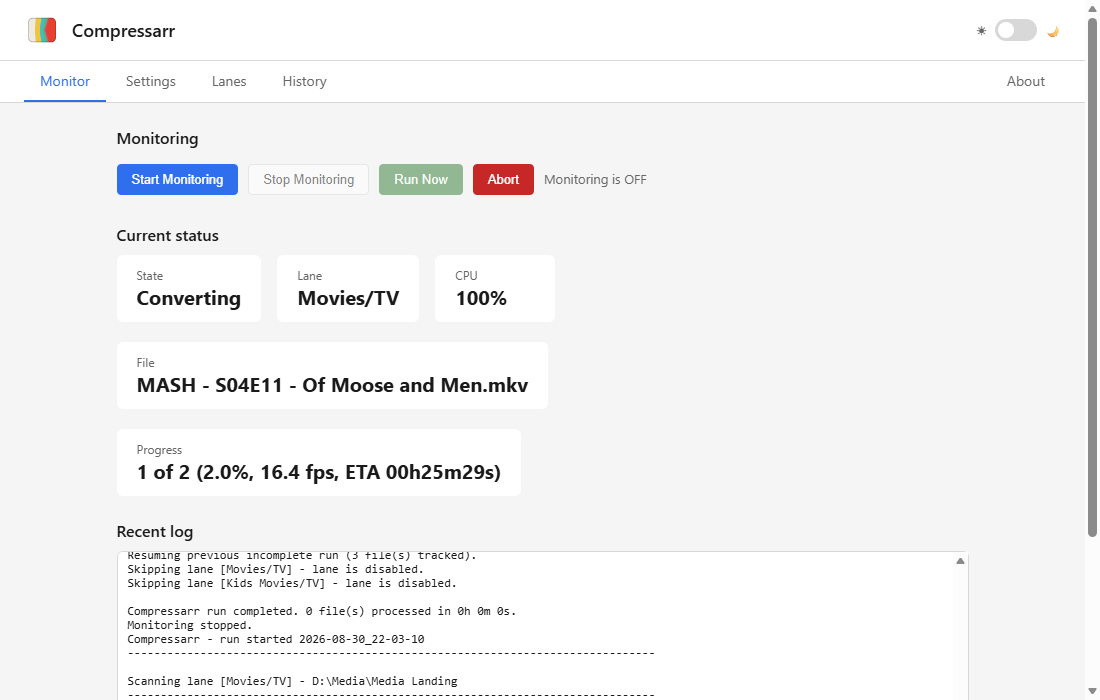
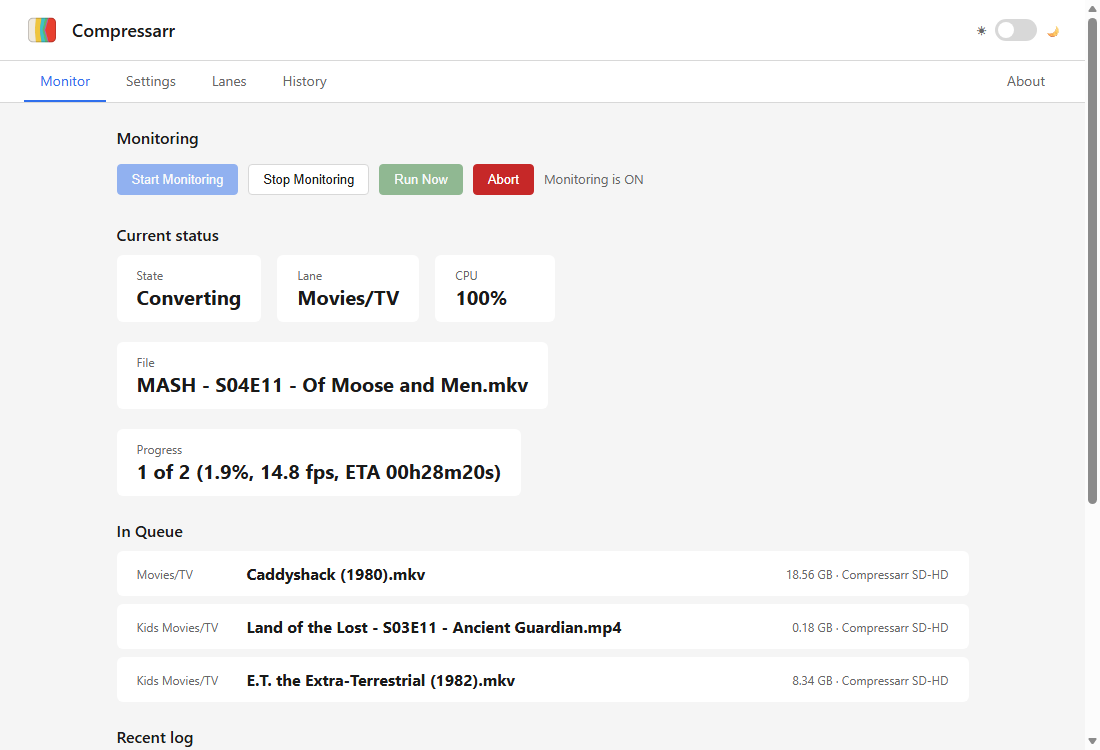
Refresh Monitor screenshot, document In Queue and Reload in README
New screenshot shows a real in-progress conversion alongside a
populated In Queue list. README's Monitoring section now mentions
In Queue and the immediate cross-surface stop feedback; the Settings
field table now mentions what Reload does.

diff --git a/README.md b/README.md
@@ -68,10 +68,13 @@ The Monitor page is the control surface for continuous operation: **Start Monito
 watching every enabled lane on a configurable interval, with a live countdown to the next pass.
 **Run Now** skips the rest of that countdown and starts immediately. **Abort** kills whatever
 HandBrakeCLI process is currently running and stops monitoring outright - as opposed to **Stop
-Monitoring**, which finishes the current pass before stopping. The recent-log panel and CPU
-usage update live while a pass runs.
+Monitoring**, which finishes the current pass before stopping (both the page and the tray icon
+reflect a stop the moment it's requested, from either surface). The **In Queue** section lists
+every file still waiting across all enabled lanes - lane, size, and preset - so you can see what's
+coming up without waiting for the current file to finish. The recent-log panel and CPU usage
+update live while a pass runs.
 
-<img src="Assets/Screenshots/monitor-page.png" alt="Compressarr Monitor page, showing a real conversion in progress with live percent/fps/ETA" width="700">
+<img src="Assets/Screenshots/monitor-page.png" alt="Compressarr Monitor page, showing a real conversion in progress with live percent/fps/ETA and the In Queue list" width="700">
 
 *The media shown is representational test data only, not the actual film - your own results
 (speed, file size, savings) will vary based on your source files, hardware, and preset.*
@@ -141,7 +144,7 @@ these pages has a small **?** next to it with a tooltip explaining what it does.
 | Field | What it's for |
 |---|---|
 | HandBrakeCLI path | Path to `HandBrakeCLI.exe` - Check/Install finds or downloads it |
-| presets.json path | Path to HandBrake's presets.json - Install/Merge Presets adds Compressarr's own |
+| presets.json path | Path to HandBrake's presets.json - Install/Merge Presets adds Compressarr's own, Reload picks up changes made to the file without restarting Compressarr |
 | Extra CLI options | Additional flags passed straight through to every HandBrakeCLI conversion |
 | Video extensions | Comma-separated file extensions to scan for (default: `mkv, avi, mp4, mpg, ts, m4v`) |
 | Minimum size (bytes) | Skip files smaller than this - useful for ignoring samples/junk |
